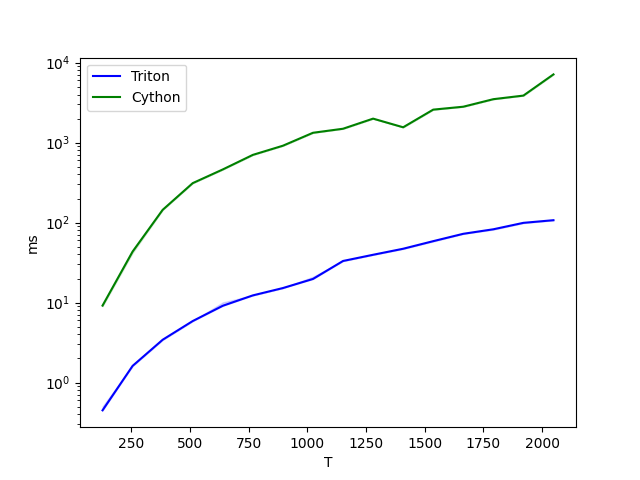
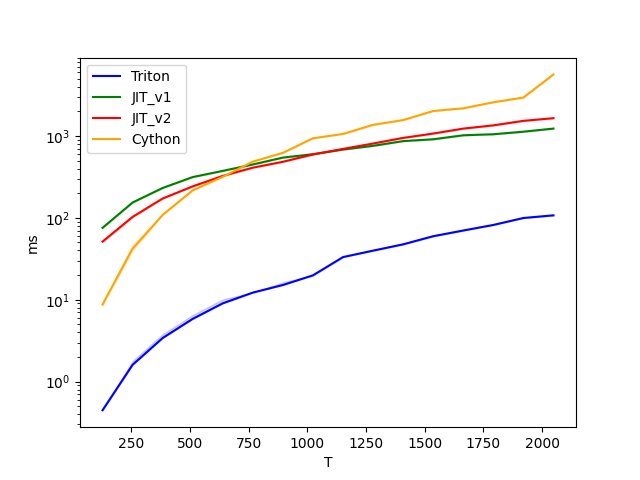
readme update for jit, max_neg_val -1e32

diff --git a/test.py b/test.py
@@ -7,12 +7,12 @@ from jit_monotonic_align import maximum_path2 as maximum_path_jit_v2
 
 
 def identical_test(B,T,S):
-    value = torch.randn((B, T, S), dtype=torch.float32, device='cuda') * 0.01
+    value = torch.randn((B, T, S), dtype=torch.float32, device='cuda')
     attn_mask = torch.ones((B, T, S), dtype=torch.int32, device='cuda')
     path_c = maximum_path_cython(value, attn_mask)
     path_jit1 = maximum_path_jit_v1(value, attn_mask)
     path_jit2 = maximum_path_jit_v2(value, attn_mask)
-    path_tri = maximum_path_trion(value, attn_mask)
+    path_tri = maximum_path_trion(value.clone(), attn_mask)
 
     # not 100% equal due to precision issue
     assert torch.allclose(path_c, path_tri, atol=1e-2, rtol=0), f"Failed on shape=({B,T,S})\n{path_c}\n{path_tri}\ndiff:{(path_c-path_tri).abs().sum()}"
@@ -25,8 +25,8 @@ def identical_test(B,T,S):
         x_names=['T'],
         x_vals=[128 * i for i in range(1, 17)],
         line_arg='provider',
-        line_vals=['triton', 'cython', 'jit_v1', 'jit_v2'],
-        line_names=['Triton', 'Cython', 'JIT_v1', 'JIT_v2'],
+        line_vals= ['triton', 'jit_v1', 'jit_v2', 'cython'],
+        line_names=['Triton', 'JIT_v1', 'JIT_v2', 'Cython'],
         styles=[('blue', '-'), ('green', '-'), ('red', '-'), ('orange', '-')],
         ylabel='ms',
         plot_name='MAS in ms',

diff --git a/super_monotonic_align/core.py b/super_monotonic_align/core.py
@@ -17,7 +17,7 @@ def maximum_path(
     y_length = tl.load(t_y + batch)
     offs_prev = tl.arange(0, BLOCK_SIZE_X)
     init = tl.where(offs_prev ==0, tl.load(value), max_neg_val)
-    # for j in range(0,1,1):  # set the first column to -1e9 without init point
+    # for j in range(0,1,1):  # set the first column to max_neg_val without init point
     tl.store(value + offs_prev * S, init, mask=offs_prev < x_length)
     for j in range(1, y_length, 1):
         v_cur= tl.load(value + (offs_prev) * S + (j-1), mask=(offs_prev < x_length), other=max_neg_val)
@@ -37,7 +37,7 @@ def maximum_path(
             
                         
 @torch.no_grad()
-def maximum_path_triton(path, value, t_x, t_y, max_neg_val=-1e9):
+def maximum_path_triton(path, value, t_x, t_y, max_neg_val=-1e32):
     B,T,S = path.shape
     BLOCK_SIZE_X = max(triton.next_power_of_2(T), 16)
     num_warps = 1 # Need to be 1 to prevent wrong output by slicing the operation

diff --git a/jit_monotonic_align/__init__.py b/jit_monotonic_align/__init__.py
@@ -9,7 +9,7 @@ def maximum_path1(logp: torch.Tensor, attn_mask: torch.Tensor):
     device = logp.device
     logp = logp * attn_mask  # [B, Tx, Ty]
     path = torch.zeros_like(logp)  # [B, Tx, Ty]
-    max_neg_val = torch.tensor(-1e9, dtype=logp.dtype, device=device)
+    max_neg_val = torch.tensor(-1e32, dtype=logp.dtype, device=device)
 
     x_len = attn_mask[:, :, 0].sum(dim=1).long()  # [B]
     y_len = attn_mask[:, 0, :].sum(dim=1).long()  # [B]
@@ -54,7 +54,7 @@ def maximum_path2(logp: torch.Tensor, attn_mask: torch.Tensor):
         device = logp.device
         logp = logp * attn_mask  # [B, Tx, Ty]
         path = torch.zeros_like(logp)  # [B, Tx, Ty]
-        max_neg_val = torch.tensor(-1e9, dtype=logp.dtype, device=device)
+        max_neg_val = torch.tensor(-1e32, dtype=logp.dtype, device=device)
 
         x_len = attn_mask[:, :, 0].sum(dim=1).long()  # [B]
         y_len = attn_mask[:, 0, :].sum(dim=1).long()  # [B]

diff --git a/super_monotonic_align/__init__.py b/super_monotonic_align/__init__.py
@@ -8,6 +8,8 @@ def maximum_path(value, mask, dtype=torch.float32):
     mask: [b, t_x, t_y]
     skip_mask: [b, t_x]
     """
+    # check value is contiguous
+    value = value.contiguous()
     # Use masked_fill_ to avoid new tensor creation
     value = value.masked_fill_(mask.logical_not(), 0)
     path = torch.zeros_like(value, dtype=dtype)

diff --git a/README.md b/README.md
@@ -7,11 +7,12 @@ MAS is an effective algorithm for estimating the alignment between paired speech
 The authors of Glow-TTS noted:
 > "The time complexity of the algorithm is O(T_{text} × T_{mel}). Even though the algorithm is difficult to parallelize, it runs efficiently on CPU without the need for GPU executions. In our experiments, it spends less than 20 ms on each iteration, which amounts to less than 2% of the total training time. Furthermore, we do not need MAS during inference, as the duration predictor is used to estimate the alignment."
 
-However, we found two things.
+However, we found three issues while using MAS.
 1. MAS can be parallelized in the text-length dimension.
 2. CPU execution consumes an inordinate amount of time for large inputs due to the need to copy large tensors between CPU and GPU.
+3. The hard-coded value of max_neg_val at -1e9 is insufficient to prevent alignment mismatches in the upper diagonal parts.
 
-Therefore, we implemented a Triton kernel to accelerate MAS on GPU without inter-device copy.
+Therefore, we implemented a Triton kernel `super_monotonic_align` and PyTorch code `jit_monotonic_align` to accelerate MAS on GPU without inter-device copy.
 
 # Requirments
 1. PyTorch (tested with version `torch==2.3.0+cu121`)
@@ -35,35 +36,37 @@ from super_monotonic_align import maximum_path
 ...
 # You need to know value's value is modified by triton kernel.
 # If you want to keep value without changing, you need to clone it before maximum_path.
+# B: batch_size, T: text_length, S: audio_length
 value = torch.randn((B, T, S), dtype=torch.float32, device='cuda')
 attn_mask = torch.ones((B, T, S), dtype=torch.int32, device='cuda')
-# path: [B,T,S]
-path = maximum_path(value, attn_mask)
+# path: [B,T,S] tensor, you can specify path's dtype, default=torch.float32
+path = maximum_path(value, attn_mask, dtype=torch.bool)
 ```
 
 # Benchmark
 ```
 MAS in ms:
-         T      Triton       Cython
-0    128.0    0.498688     8.835520
-1    256.0    1.615872    42.645790
-2    384.0    3.428352   138.791458
-3    512.0    5.874688   305.674438
-4    640.0    9.065472   448.026978
-5    768.0   12.222464   499.826355
-6    896.0   15.326208   613.331116
-7   1024.0   19.742207  1348.791382
-8   1152.0   33.110016  1425.197388
-9   1280.0   39.672832  1879.560547
-10  1408.0   47.270401  2160.256836
-11  1536.0   59.043327  2851.383789
-12  1664.0   72.378372  2873.137939
-13  1792.0   82.171906  3634.574219
-14  1920.0   98.664452  3959.088379
-15  2048.0  107.194878  7263.244629
+         T      Triton       JIT_v1       JIT_v2       Cython
+0    128.0    0.447488    83.742203    53.222176     8.819136
+1    256.0    1.616896   155.424774   104.632477    43.533665
+2    384.0    3.430400   325.307404   237.820435   136.257538
+3    512.0    5.838848   439.984131   344.654236   304.981201
+4    640.0    9.070592   532.910095   452.141907   462.405304
+5    768.0   12.249088   655.960083   587.169739   488.272858
+6    896.0   15.203328   557.997070   620.148315   863.919067
+7   1024.0   19.778561   627.986450   815.933167  1299.567871
+8   1152.0   33.276928   706.022400   968.533813  1467.056885
+9   1280.0   39.800835   792.861694  1215.021240  1930.171509
+10  1408.0   47.456257   903.750671  1289.656250  2231.598145
+11  1536.0   59.238914   953.907227  1523.870972  2959.377930
+12  1664.0   70.068741  1031.818237  2004.299438  3073.532471
+13  1792.0   82.205696  1558.200317  2359.347900  3930.776367
+14  1920.0   99.634689  1183.214600  2512.063477  4374.311035
+15  2048.0  107.218948  1261.682739  2889.841797  7792.640137
 ```
 
-The Triton MAS implementation is at least 17 times faster and up to 67 times faster than the Cython implementation.
+The Triton MAS implementation is at least 17 times faster and up to 67 times faster than the Cython implementation. PyTorch JIT implementations are faster than the Cython implementation for large-sized tensors, especially version v1, which does not involve inter-device copying.
+
 | ms in linear scale | ms in log scale |
 |----------|----------|
 | ![Image 1](./assets/MAS.png) | ![Image 2](./assets/MAS_log.png) |
@@ -77,13 +80,13 @@ cd ../; python test.py
 
 # References
 This implementation uses code from following repositories:
-- [Official Glow-TTS Implementation](https://github.com/jaywalnut310/glow-tts)
-- [Triton-Lang](https://github.com/triton-lang/triton)
+- [jaywalnut310's Official Glow-TTS Implementation](https://github.com/jaywalnut310/glow-tts)
+- [OpenAI's Triton-Lang Tutorials](https://github.com/triton-lang/triton)
 
 
 # Authors
-- Junhyeok Lee ([jlee843@jhu.edu](mailto:jlee843@jhu.edu))
-- Hyoungju Kim([hyeongju@supertone.ai](mailto:hyeongju@supertone.ai))
+- Junhyeok Lee ([jlee843@jhu.edu](mailto:jlee843@jhu.edu), [jun.hyeok@supertone.ai](mailto:jun.hyeok@supertone.ai))
+- Hyoungju Kim ([hyeongju@supertone.ai](mailto:hyeongju@supertone.ai))
 
 
 Feel free to create an issue if you encounter any problems or have any questions.
